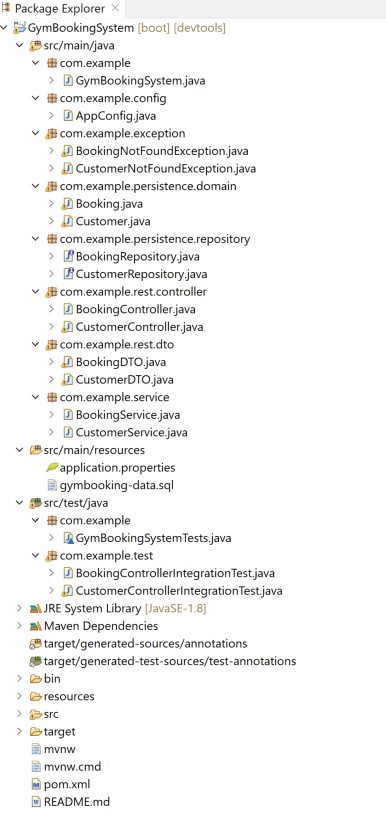
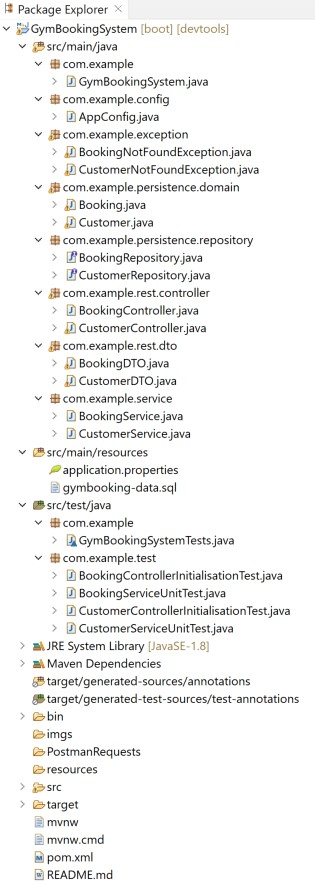
42nd commit

Changed region(s): [[0.0, 0.0, 0.9429, 0.9988]]

diff --git a/src/test/java/com/example/test/CustomerControllerInitialisationTest.java b/src/test/java/com/example/test/CustomerControllerInitialisationTest.java
@@ -1,0 +1,22 @@
+package com.example.test;
+
+import static org.assertj.core.api.Assertions.assertThat;
+
+import org.junit.jupiter.api.Test;
+import org.springframework.beans.factory.annotation.Autowired;
+import org.springframework.boot.test.context.SpringBootTest;
+
+import com.example.rest.controller.CustomerController;
+
+@SpringBootTest
+public class CustomerControllerInitialisationTest 
+{
+	@Autowired
+	private CustomerController controller;
+	
+	@Test
+	public void controllerInitCorrectly() //Checks whether REST controller has been initialised
+	{
+		assertThat(controller).isNotNull();
+	}
+}

diff --git a/src/test/java/com/example/test/BookingControllerInitialisationTest.java b/src/test/java/com/example/test/BookingControllerInitialisationTest.java
@@ -1,0 +1,22 @@
+package com.example.test;
+
+import static org.assertj.core.api.Assertions.assertThat;
+
+import org.junit.jupiter.api.Test;
+import org.springframework.beans.factory.annotation.Autowired;
+import org.springframework.boot.test.context.SpringBootTest;
+
+import com.example.rest.controller.BookingController;
+
+@SpringBootTest
+public class BookingControllerInitialisationTest 
+{
+	@Autowired
+	private BookingController controller;
+	
+	@Test
+	public void controllerInitCorrectly() //Checks whether REST controller has been initialised
+	{
+		assertThat(controller).isNotNull();
+	}
+}

diff --git a/README.md b/README.md
@@ -228,20 +228,20 @@ All unit tests were completed and passed for the booking service layer.
 <details>
 <summary>Click for an image of the execution</summary>
 <br>
-<img width = 550 src=imgs/BookingServiceUnitTest.jpg> <br>
+<img width = 550 src=imgs/BookingControllerInitialisationTest.jpg> <br>
 </details>
 
-#### Customer Controller integration test <br>
-Customer Controller integration tests were attempted however failed. Scope for improvement as it is most likely due to incorrect code as all manual HTTPs requests work.
+#### Customer Controller Initialisation test <br>
+Customer rest controller initialisation tests were completed and passed without issues.
 
 <details>
 <summary>Click for an image of the execution</summary>
 <br>
-<img width = 550 src=imgs/CustomerControllerIntegrationTest.jpg> <br>
+<img width = 550 src=imgs/CustomerControllerInitialisationTest.jpg> <br>
 </details>
 
-#### Booking Controller integration test <br>
-Booking Controller integration tests were attempted however failed. Scope for improvement as it is most likely due to incorrect code as all manual HTTPs requests work.
+#### Booking Controller Initialisation test <br>
+Booking rest controller initialisation tests were completed and passed without issues.
 
 <details>
 <summary>Click for an image of the execution</summary>
